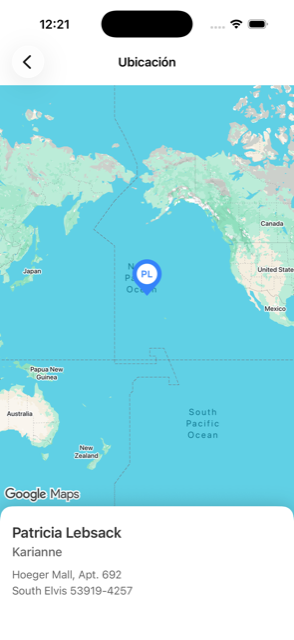
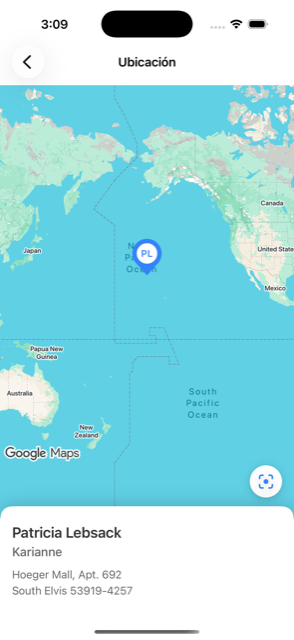
feat: bring the map back to the user after moving it
- Add a floating button that returns the camera to the marker
- Restore the whole framing: coordinate, initial zoom, north up and no tilt
- Animate the camera back instead of jumping to it
- Extract the initial camera so opening the screen and recentring cannot diverge
- Reserve the button's row in the map so the marker stays fully visible
- Add elevation and icon tokens for map controls
- Refresh the README screenshots and its test count
- Add 4 unit tests covering the initial camera

diff --git a/UserLocator/Features/Users/Presentation/UserMap/GoogleMapView.swift b/UserLocator/Features/Users/Presentation/UserMap/GoogleMapView.swift
@@ -2,12 +2,11 @@ import GoogleMaps
 import SwiftUI
 
 struct GoogleMapView: UIViewRepresentable {
-    private static let cameraZoom: Float = 2
-
     let coordinate: Coordinate
     let initials: String?
     let markerAccessibilityLabel: String
     let bottomInset: CGFloat
+    let recenterRequests: Int
 
     @Environment(\.colorScheme) private var colorScheme
     @Environment(\.displayScale) private var displayScale
@@ -20,7 +19,7 @@ struct GoogleMapView: UIViewRepresentable {
         let position = CLLocationCoordinate2D(latitude: coordinate.latitude, longitude: coordinate.longitude)
 
         let options = GMSMapViewOptions()
-        options.camera = GMSCameraPosition(target: position, zoom: Self.cameraZoom)
+        options.camera = MapCamera.initial(at: coordinate)
 
         let mapView = GMSMapView(options: options)
         mapView.paddingAdjustmentBehavior = .always
@@ -30,6 +29,7 @@ struct GoogleMapView: UIViewRepresentable {
         marker.groundAnchor = MarkerIconFactory.groundAnchor
         marker.map = mapView
         context.coordinator.marker = marker
+        context.coordinator.appliedRecenterRequests = recenterRequests
 
         return mapView
     }
@@ -40,6 +40,11 @@ struct GoogleMapView: UIViewRepresentable {
         uiView.overrideUserInterfaceStyle = traits.userInterfaceStyle
         uiView.padding = UIEdgeInsets(top: 0, left: 0, bottom: bottomInset, right: 0)
         context.coordinator.marker?.icon = MarkerIconFactory.makeIcon(initials: initials, traits: traits)
+
+        if context.coordinator.appliedRecenterRequests != recenterRequests {
+            context.coordinator.appliedRecenterRequests = recenterRequests
+            uiView.animate(to: MapCamera.initial(at: coordinate))
+        }
     }
 
     private func makeTraits() -> UITraitCollection {
@@ -52,5 +57,6 @@ struct GoogleMapView: UIViewRepresentable {
     @MainActor
     final class Coordinator {
         var marker: GMSMarker?
+        var appliedRecenterRequests = 0
     }
 }

diff --git a/UserLocator/Features/Users/Presentation/UserMap/UserMapView.swift b/UserLocator/Features/Users/Presentation/UserMap/UserMapView.swift
@@ -3,10 +3,12 @@ import SwiftUI
 struct UserMapView: View {
     private static let missingKeyIcon = "map"
     private static let cardMaximumHeightRatio: CGFloat = 1.0 / 3
+    private static let recenterButtonRow = AppSpacing.minimumTapTarget + AppSpacing.medium
 
     let viewModel: UserMapViewModel
 
     @State private var cardContentHeight: CGFloat = 0
+    @State private var recenterRequests = 0
 
     var body: some View {
         content
@@ -40,11 +42,17 @@ struct UserMapView: View {
                 coordinate: coordinate,
                 initials: viewModel.markerInitials,
                 markerAccessibilityLabel: markerAccessibilityLabel,
-                bottomInset: cardHeight
+                bottomInset: cardHeight + Self.recenterButtonRow,
+                recenterRequests: recenterRequests
             )
             .ignoresSafeArea(edges: [.horizontal, .bottom])
             .safeAreaInset(edge: .bottom, spacing: 0) {
-                card(height: cardHeight)
+                VStack(alignment: .trailing, spacing: AppSpacing.medium) {
+                    RecenterButton { recenterRequests += 1 }
+                        .padding(.trailing, AppSpacing.large)
+
+                    card(height: cardHeight)
+                }
             }
         }
     }

diff --git a/UserLocatorTests/Features/Users/Presentation/UserMap/MapCameraTests.swift b/UserLocatorTests/Features/Users/Presentation/UserMap/MapCameraTests.swift
@@ -1,0 +1,37 @@
+import GoogleMaps
+import Testing
+@testable import UserLocator
+
+@Suite("MapCamera")
+struct MapCameraTests {
+
+    @Test
+    func whenBuildingTheInitialCamera_targetsTheCoordinate() {
+        let coordinate = Coordinate(latitude: -37.3159, longitude: 81.1496)
+
+        let camera = MapCamera.initial(at: coordinate)
+
+        #expect(Coordinate(latitude: camera.target.latitude, longitude: camera.target.longitude) == coordinate)
+    }
+
+    @Test
+    func whenBuildingTheInitialCamera_usesTheWorldZoom() {
+        let camera = MapCamera.initial(at: .fixture())
+
+        #expect(camera.zoom == 2)
+    }
+
+    @Test
+    func whenBuildingTheInitialCamera_facesNorth() {
+        let camera = MapCamera.initial(at: .fixture())
+
+        #expect(camera.bearing == 0)
+    }
+
+    @Test
+    func whenBuildingTheInitialCamera_hasNoTilt() {
+        let camera = MapCamera.initial(at: .fixture())
+
+        #expect(camera.viewingAngle == 0)
+    }
+}

diff --git a/UserLocator/Features/Users/Presentation/UserMap/RecenterButton.swift b/UserLocator/Features/Users/Presentation/UserMap/RecenterButton.swift
@@ -1,0 +1,23 @@
+import SwiftUI
+
+struct RecenterButton: View {
+    private static let icon = "dot.viewfinder"
+
+    let action: () -> Void
+
+    var body: some View {
+        Button(action: action) {
+            Image(systemName: Self.icon)
+                .font(AppTypography.mapControlIcon)
+                .foregroundStyle(AppColor.accent)
+                .frame(width: AppSpacing.minimumTapTarget, height: AppSpacing.minimumTapTarget)
+                .background(AppColor.surface, in: .circle)
+                .shadow(
+                    color: AppColor.shadow.color,
+                    radius: AppElevation.controlBlur,
+                    y: AppElevation.controlOffsetY
+                )
+        }
+        .accessibilityLabel(Text("user_map.recenter.accessibility_label"))
+    }
+}

diff --git a/UserLocator/Features/Users/Presentation/UserMap/MapCamera.swift b/UserLocator/Features/Users/Presentation/UserMap/MapCamera.swift
@@ -1,0 +1,14 @@
+import GoogleMaps
+
+enum MapCamera {
+    static let zoom: Float = 2
+
+    static func initial(at coordinate: Coordinate) -> GMSCameraPosition {
+        GMSCameraPosition(
+            target: CLLocationCoordinate2D(latitude: coordinate.latitude, longitude: coordinate.longitude),
+            zoom: zoom,
+            bearing: 0,
+            viewingAngle: 0
+        )
+    }
+}

diff --git a/UserLocator/DesignSystem/Tokens/AppTypography.swift b/UserLocator/DesignSystem/Tokens/AppTypography.swift
@@ -13,5 +13,6 @@ enum AppTypography {
     static let stateIcon = Font.system(.largeTitle)
     static let notice = Font.system(.footnote)
     static let disclosure = Font.system(.footnote, weight: .semibold)
+    static let mapControlIcon = Font.system(size: 20, weight: .semibold)
     static let markerInitials = UIFont.systemFont(ofSize: 13, weight: .semibold)
 }

diff --git a/UserLocatorTests/Support/Fixtures/Coordinate+Fixture.swift b/UserLocatorTests/Support/Fixtures/Coordinate+Fixture.swift
@@ -1,0 +1,10 @@
+@testable import UserLocator
+
+extension Coordinate {
+    static func fixture(
+        latitude: Double = -37.3159,
+        longitude: Double = 81.1496
+    ) -> Coordinate {
+        Coordinate(latitude: latitude, longitude: longitude)
+    }
+}

diff --git a/UserLocator/DesignSystem/Tokens/AppElevation.swift b/UserLocator/DesignSystem/Tokens/AppElevation.swift
@@ -3,4 +3,6 @@ import CoreFoundation
 enum AppElevation {
     static let cardBlur: CGFloat = 12
     static let cardOffsetY: CGFloat = -2
+    static let controlBlur: CGFloat = 6
+    static let controlOffsetY: CGFloat = 2
 }

diff --git a/README.md b/README.md
@@ -7,7 +7,8 @@ Each row in the list shows the person's name, their username and an avatar with 
 While the data is in flight an animated skeleton stands in for it; if the API fails, a clear message
 with a retry button takes its place; and pulling down asks for the data again. Tapping a row opens
 the map, centred on that person's location, with a marker drawn by the app carrying their initials
-and a card at the bottom with their name, username and postal address.
+and a card at the bottom with their name, username and postal address. The map can be panned,
+zoomed and rotated freely, and a floating button brings the camera back to where it started.
 
 The interface is in Spanish. It works in light and dark appearance, from an iPhone SE to a Pro Max,
 in portrait and landscape, and follows whatever text size the system is set to.
@@ -72,7 +73,7 @@ works normally, and the map screen explains that the key is missing and how to c
 of failing.
 
 **3. Run the tests.** With `⌘U` in Xcode, or with `xcodebuild test -scheme UserLocator -destination
-'platform=iOS Simulator,name=iPhone 17'`. There are 77 of them, and none needs the network or an API
+'platform=iOS Simulator,name=iPhone 17'`. There are 81 of them, and none needs the network or an API
 key.
 
 If you have SwiftLint installed, `swiftlint --strict` checks the style. It is not a build phase and
@@ -150,7 +151,7 @@ the card.
 | `Features/Users/Domain/` | Entities, use cases, errors and repository protocols |
 | `Features/Users/Data/` | DTOs, mappers and the remote repository |
 | `Features/Users/Presentation/UserList/` | The list screen: view, view model and its presentation model |
-| `Features/Users/Presentation/UserMap/` | The map screen: view, view model, the SDK wrapper and the marker drawing |
+| `Features/Users/Presentation/UserMap/` | The map screen: view, view model, the SDK wrapper, the camera and the marker drawing |
 | `Features/Users/Presentation/Navigation/` | Typed navigation routes |
 | `Resources/` | The string catalog and the colour assets |
 | `UserLocatorTests/` | Mirrors the production tree exactly, plus `Support/` with fixtures and doubles |
@@ -188,7 +189,7 @@ model and can be asserted in a test, and the view is left to draw it.
 
 ## Testing strategy
 
-77 tests written with **Swift Testing**, none of which touches the network or needs an API key. The
+81 tests written with **Swift Testing**, none of which touches the network or needs an API key. The
 test doubles are hand-written against the protocols, without a mocking library: they are a few lines
 each and they make what is being simulated explicit.
 
@@ -205,6 +206,8 @@ What is covered:
   empty input.
 - **The marker drawing**, by reading pixels from the generated image to verify its geometry, its
   palette and that it is redrawn when the appearance changes.
+- **The map's initial camera**, which is also what the recenter button restores: the coordinate it
+  targets, its zoom level, and that it faces north without tilt.
 
 What is deliberately not tested: SwiftUI view bodies, the Google Maps wrapper and the dependency
 wiring. Those are declarative or integration code whose behaviour is verified by looking at the app,
